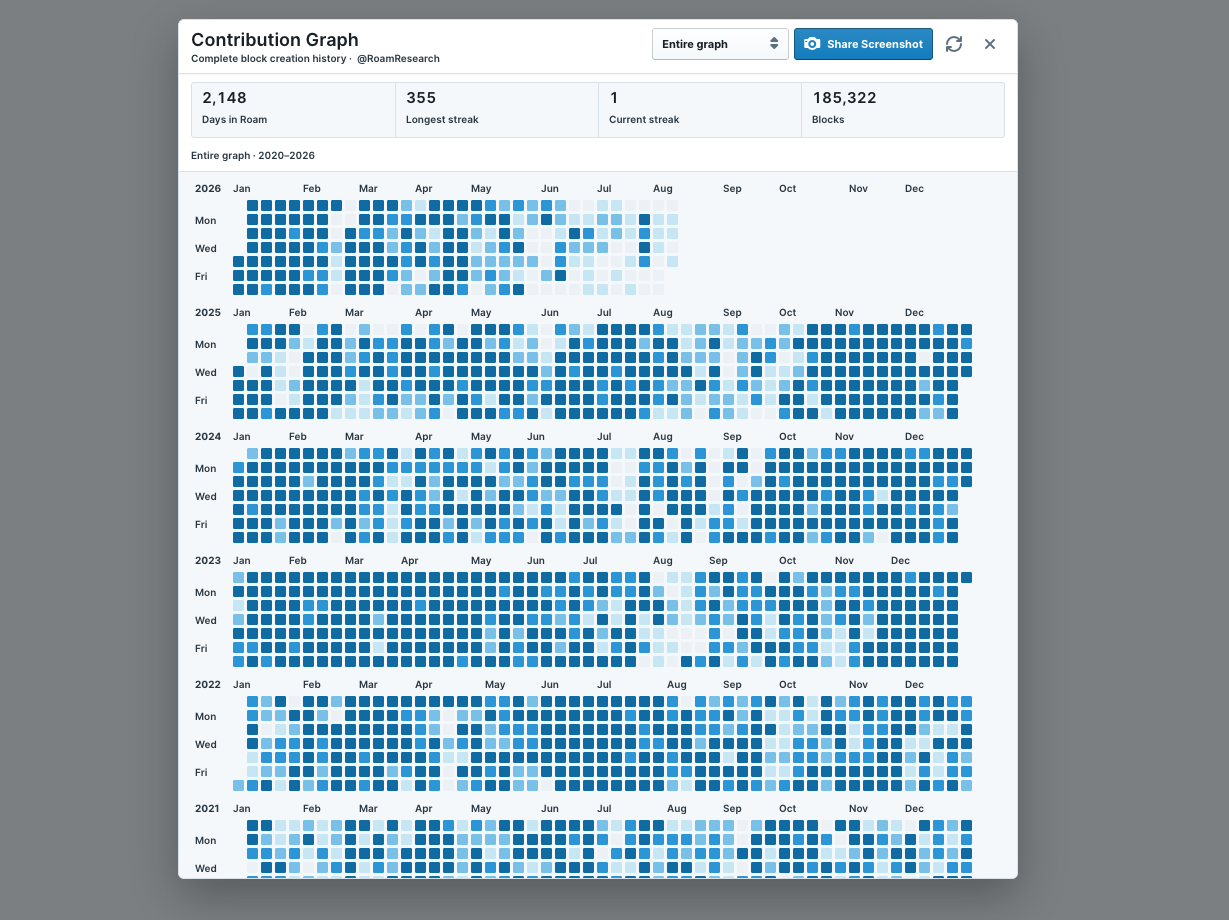
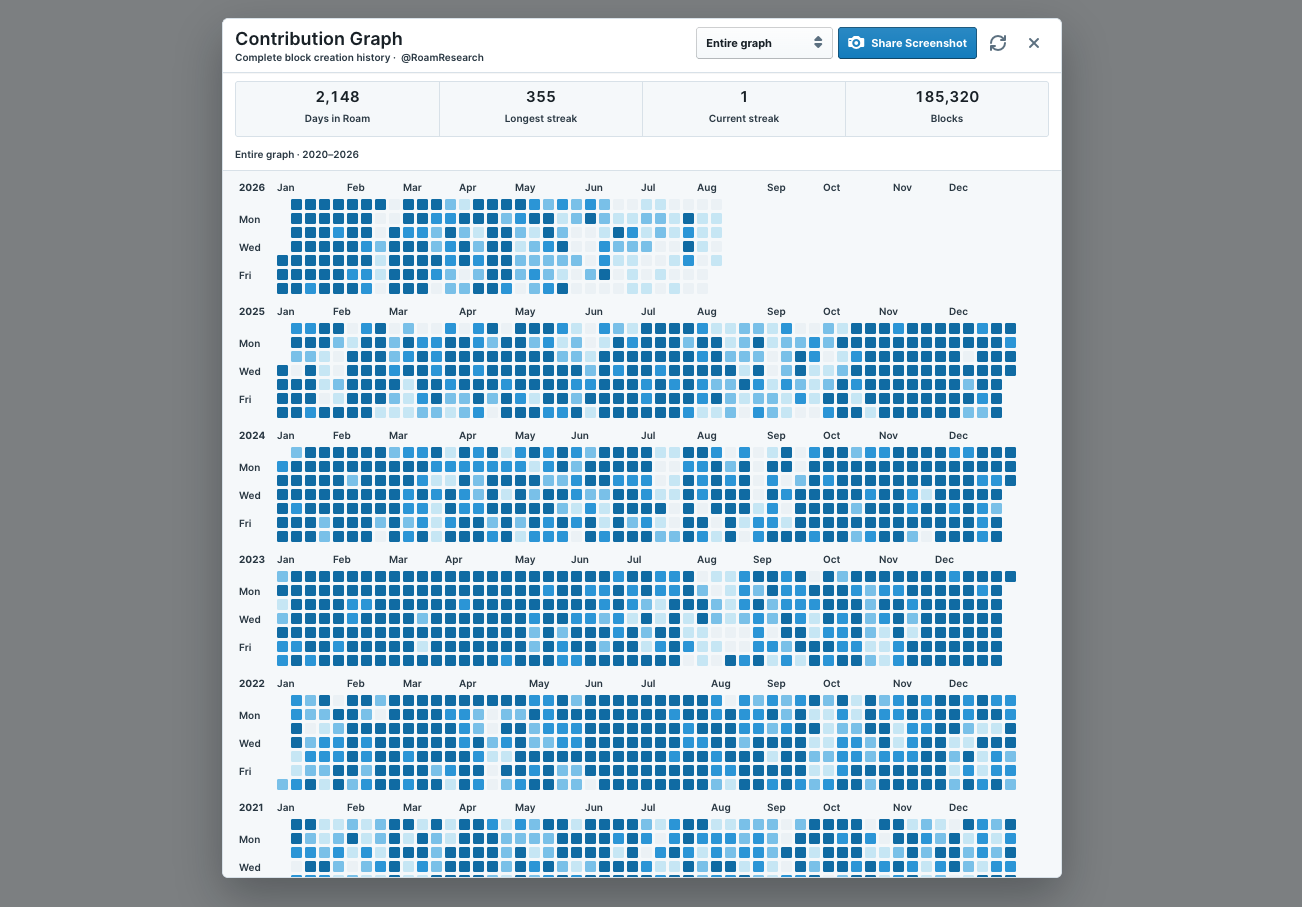
Update Contribution Graph screenshot

diff --git a/README.md b/README.md
@@ -2,7 +2,7 @@
 
 See your complete Roam block creation history as a contribution heatmap, from your earliest block through today. Every year stays visible in one compact view.
 
-![Contribution Graph displayed inside Roam Research](https://raw.githubusercontent.com/404KSG/contribution-graph/b81ebd3bd972ab9840137df8deffcbd49bc6fc5c/docs/images/contribution-graph-dialog.png)
+![Contribution Graph displayed inside Roam Research](docs/images/contribution-graph-dialog.png)
 
 ## Highlights
 
